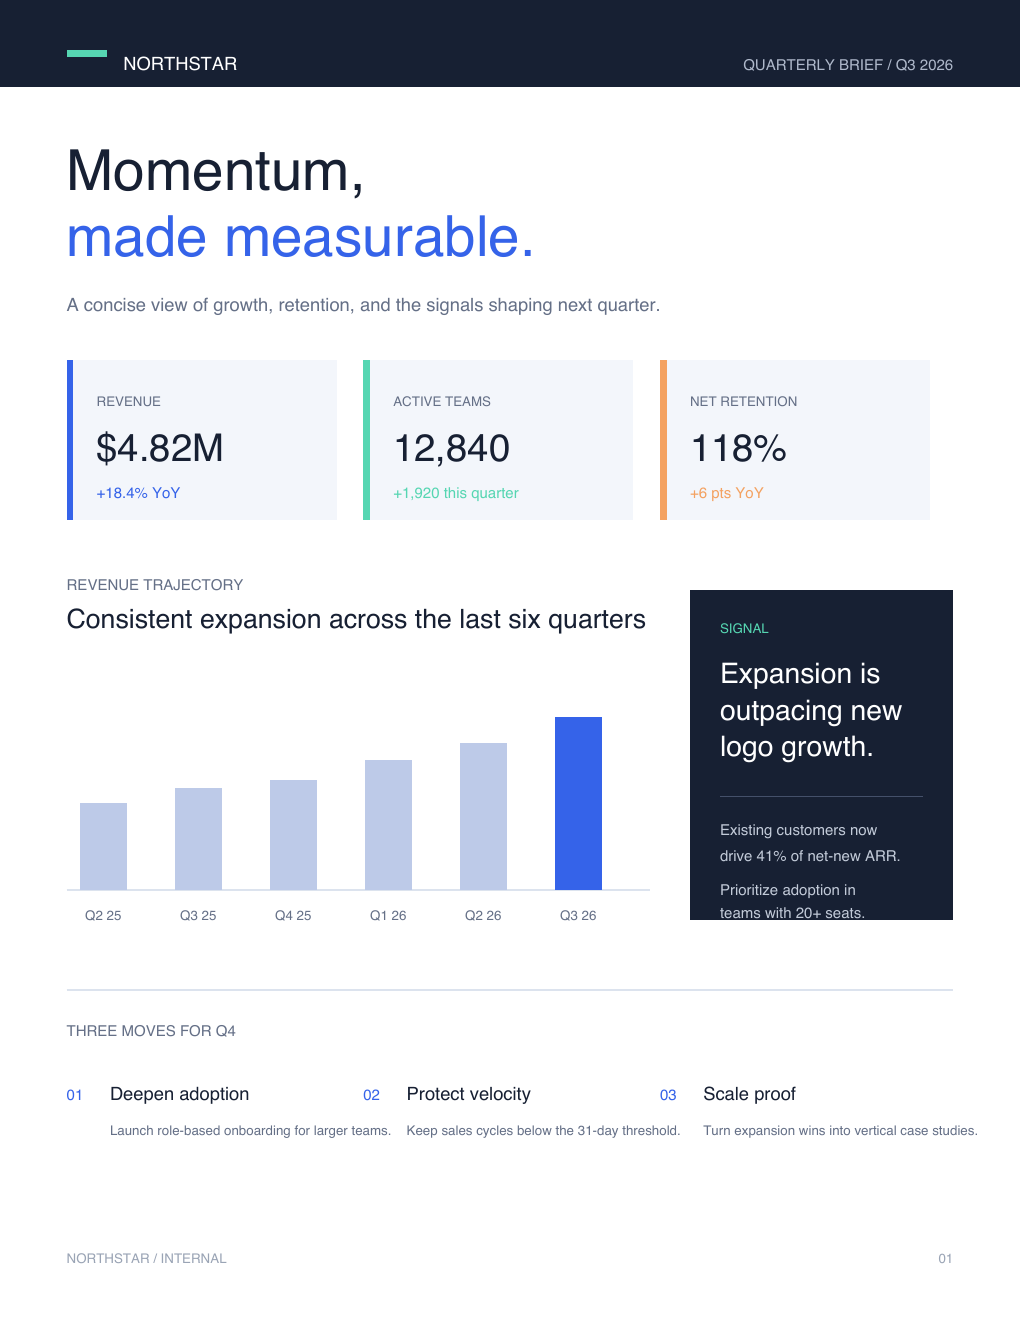
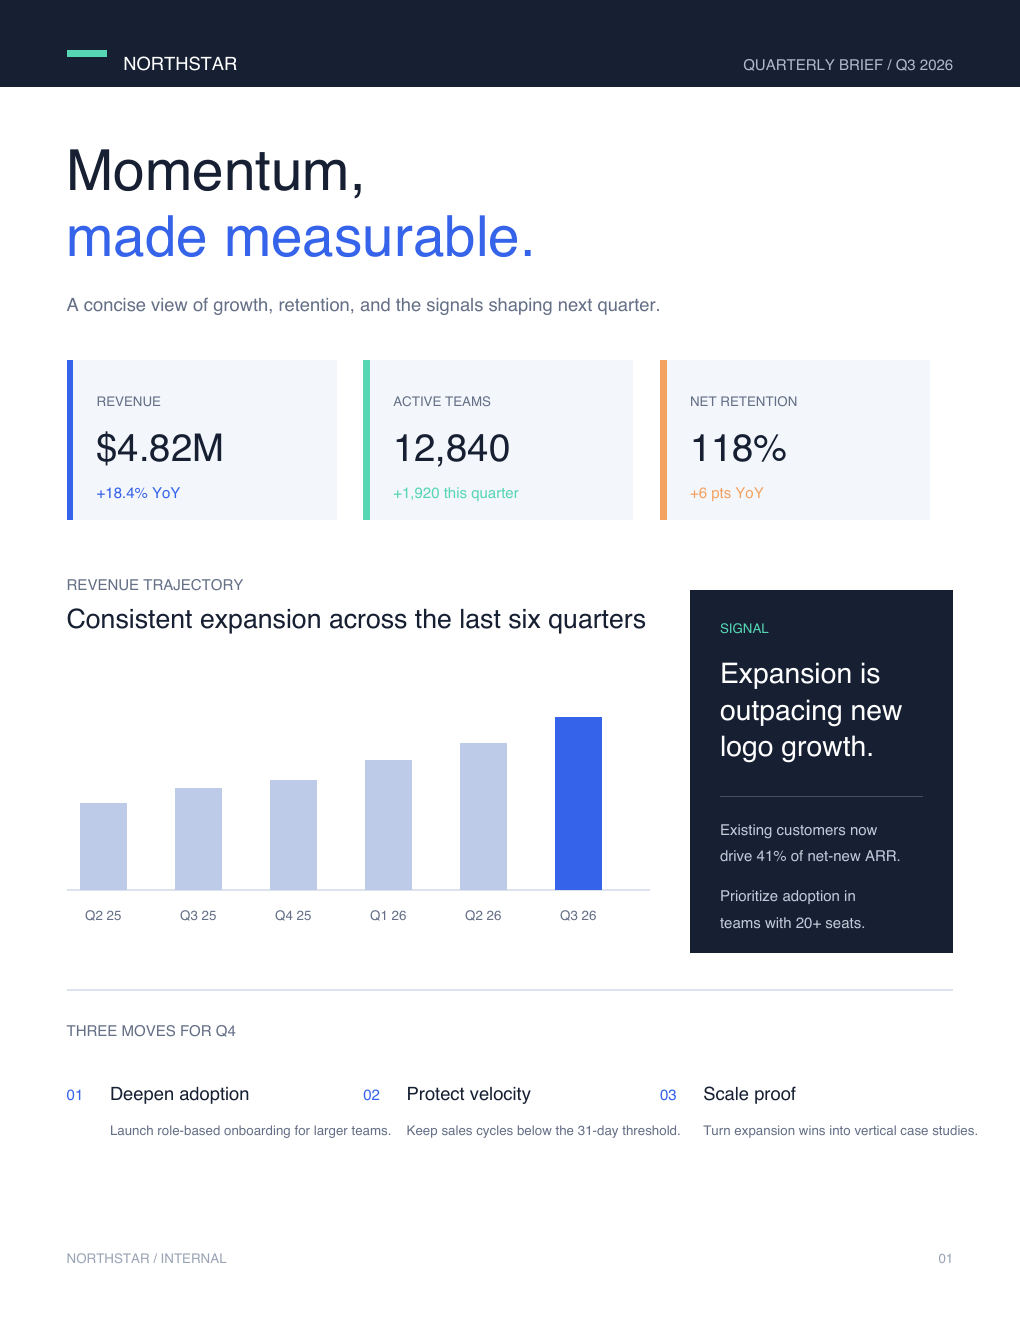
Fix executive report callout spacing

Changed region(s): [[0.6686, 0.6523, 0.9422, 0.7455]]

diff --git a/examples/executive-report.ts b/examples/executive-report.ts
@@ -45,7 +45,7 @@ doc.page(W, H, p => {
   })
 
   // Narrative panel
-  p.rect(414, 240, 158, 198, ink)
+  p.rect(414, 220, 158, 218, ink)
   p.text('SIGNAL', 432, 412, 8, { color: mint })
   p.text('Expansion is', 432, 382, 17, { color: '#ffffff' })
   p.text('outpacing new', 432, 360, 17, { color: '#ffffff' })
@@ -53,8 +53,8 @@ doc.page(W, H, p => {
   p.line(432, 314, 554, 314, '#44506a', 0.75)
   p.text('Existing customers now', 432, 291, 9, { color: '#c2cad8' })
   p.text('drive 41% of net-new ARR.', 432, 275, 9, { color: '#c2cad8' })
-  p.text('Prioritize adoption in', 432, 255, 9, { color: '#c2cad8' })
-  p.text('teams with 20+ seats.', 432, 241, 9, { color: '#c2cad8' })
+  p.text('Prioritize adoption in', 432, 251, 9, { color: '#c2cad8' })
+  p.text('teams with 20+ seats.', 432, 235, 9, { color: '#c2cad8' })
 
   // Footer takeaways
   p.line(40, 198, 572, 198, line, 0.75)
